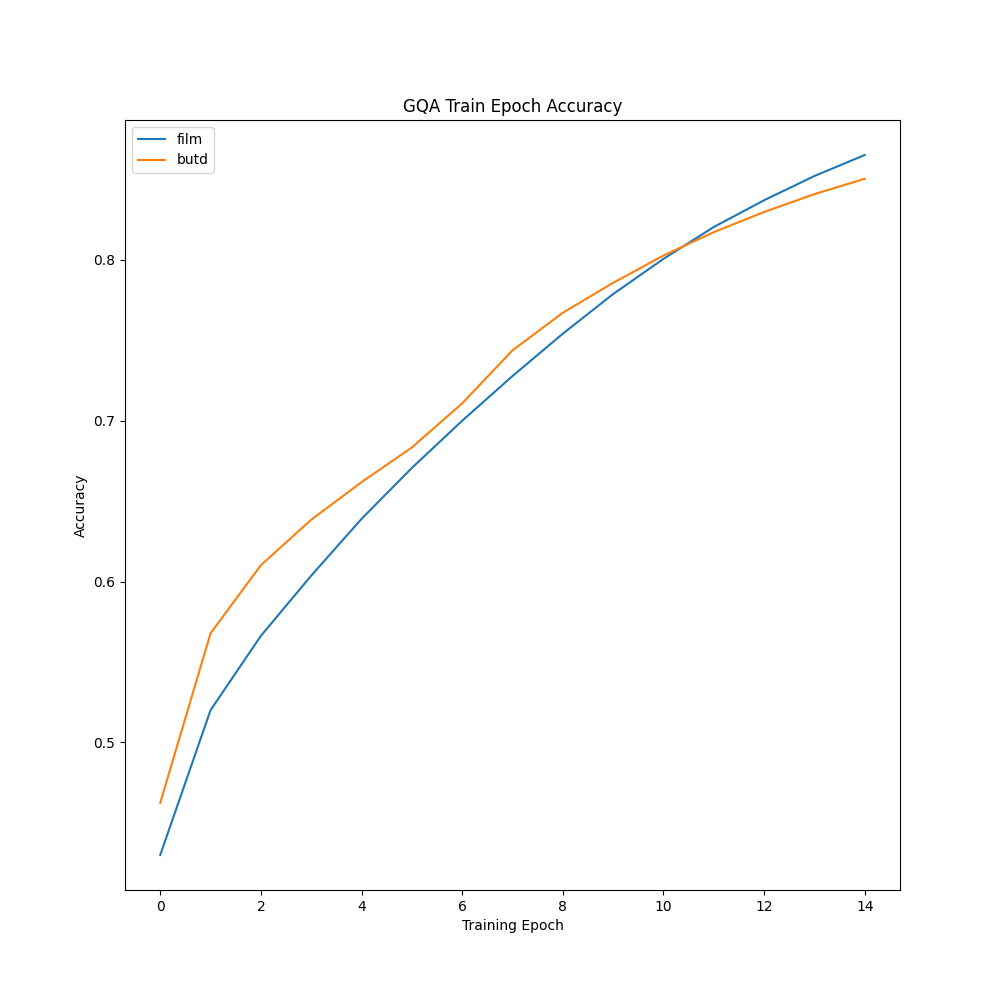
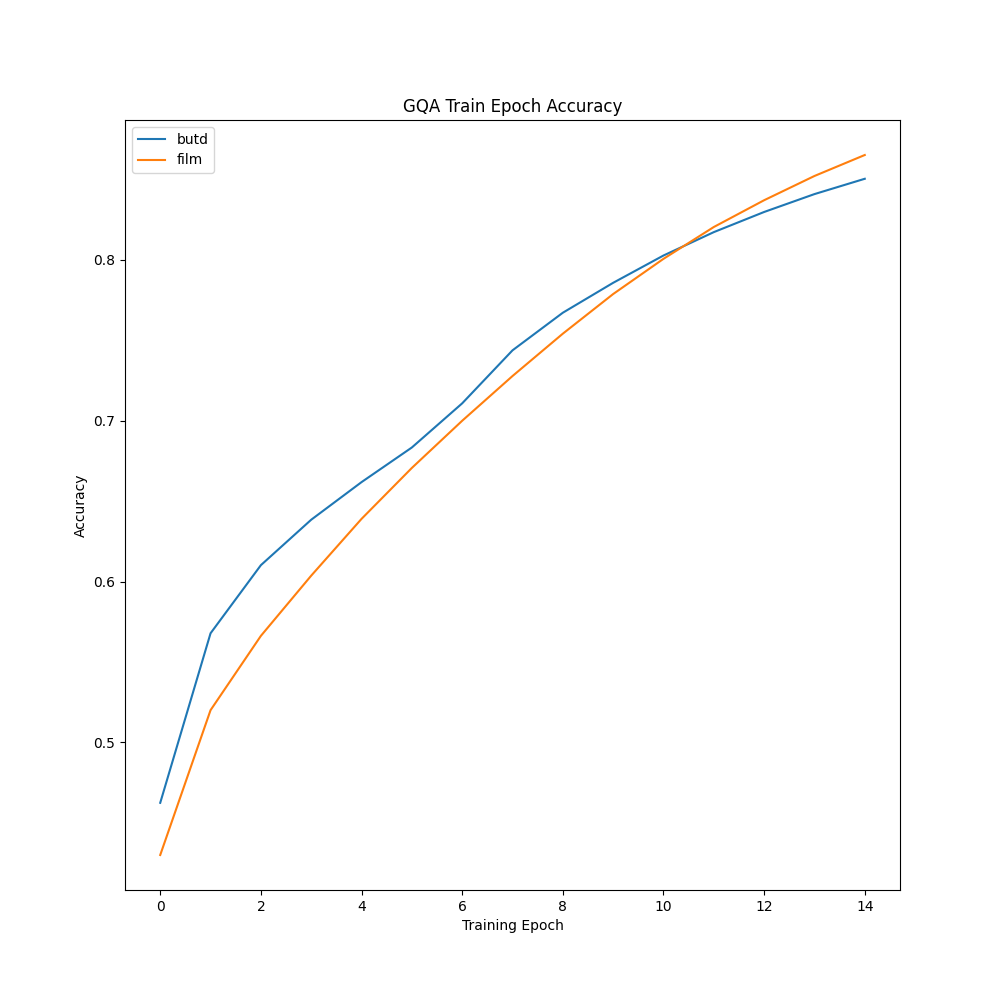
Add plots

diff --git a/visualize.py b/visualize.py
@@ -44,7 +44,7 @@ def visualize():
     # Plot
     for m in metrics:
         plt.figure(figsize=(10, 10))
-        for model in metrics[m]:
+        for model in sorted(metrics[m]):
             plt.plot(range(len(metrics[m][model])), metrics[m][model], label=model)
         plt.title('%s %s' % (args.dataset, DISPATCH[m]))
         plt.xlabel('Training Epoch')
